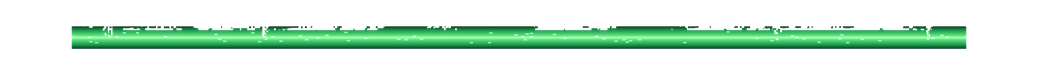
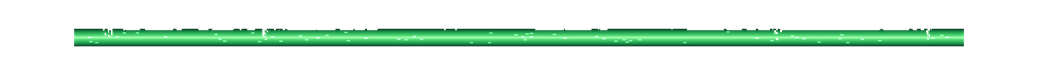
fix: recua o liquido para dentro do sulco da barra de XP
O verde encostava direto na pedra, sem deixar a borda escura do sulco
aparecer, e a barra lia como uma peca apoiada em cima da placa em vez de
liquido dentro dela. Agora o preenchimento recua 10% da altura do sulco
em cada lado, e a rampa de cor e calculada sobre a faixa pintada, para o
nucleo claro continuar centrado nela.

Changed region(s): [[0.0615, 0.5063, 0.9538, 0.6329], [0.0615, 0.3291, 0.9538, 0.4051]]

diff --git a/tools/preparar_barras_hud.py b/tools/preparar_barras_hud.py
@@ -169,17 +169,23 @@ def pintar_liquido(c, caixa, paradas):
     h, w = c.shape[:2]
     alt = y1 - y0 + 1
 
-    t = np.linspace(0.0, 1.0, alt)
     pontos = [p for p, _ in paradas]
-    rampa = np.stack([np.interp(t, pontos, [cor[k] for _, cor in paradas]) for k in range(3)], axis=1)
 
+    # Recuo: o líquido não encosta na parede do sulco. Sem ele o verde toca a
+    # pedra direto e a barra lê como uma peça apoiada em cima da placa; com a
+    # borda escura do sulco aparecendo em volta, lê como líquido dentro dele.
+    recuo = max(2, int(round(alt * 0.10)))
     dentro = np.zeros((h, w), bool)
-    dentro[y0:y1 + 1, x0:x1 + 1] = True
+    dentro[y0 + recuo:y1 + 1 - recuo, x0 + recuo:x1 + 1 - recuo] = True
     visivel = nd.binary_opening(dentro & (luminancia(c) < ESCURO), np.ones((2, 2), bool))
+
+    pintadas = slice(y0 + recuo, y1 + 1 - recuo)
+    t = np.linspace(0.0, 1.0, pintadas.stop - pintadas.start)
+    rampa = np.stack([np.interp(t, pontos, [cor[k] for _, cor in paradas]) for k in range(3)], axis=1)
 
     liquido = np.zeros_like(c)
     faixa = np.zeros((h, w, 3))
-    faixa[y0:y1 + 1] = rampa[:, None, :]
+    faixa[pintadas] = rampa[:, None, :]
     liquido[:, :, :3] = faixa
     liquido[:, :, 3] = np.where(visivel, 255, 0)
 
